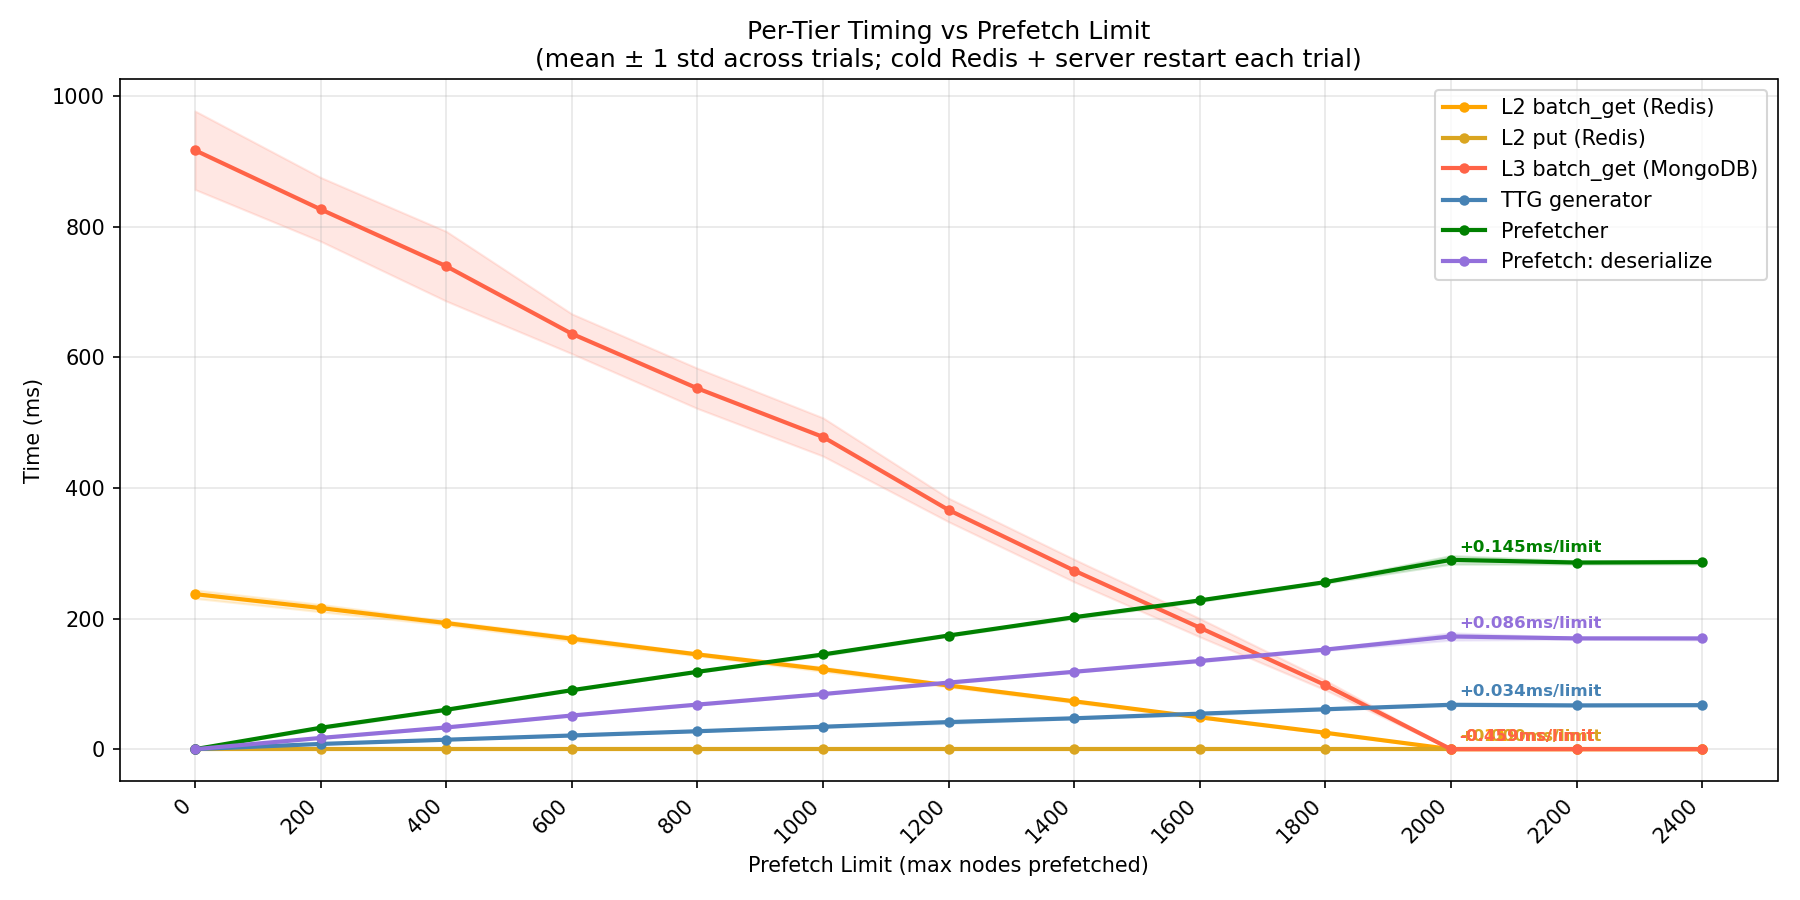
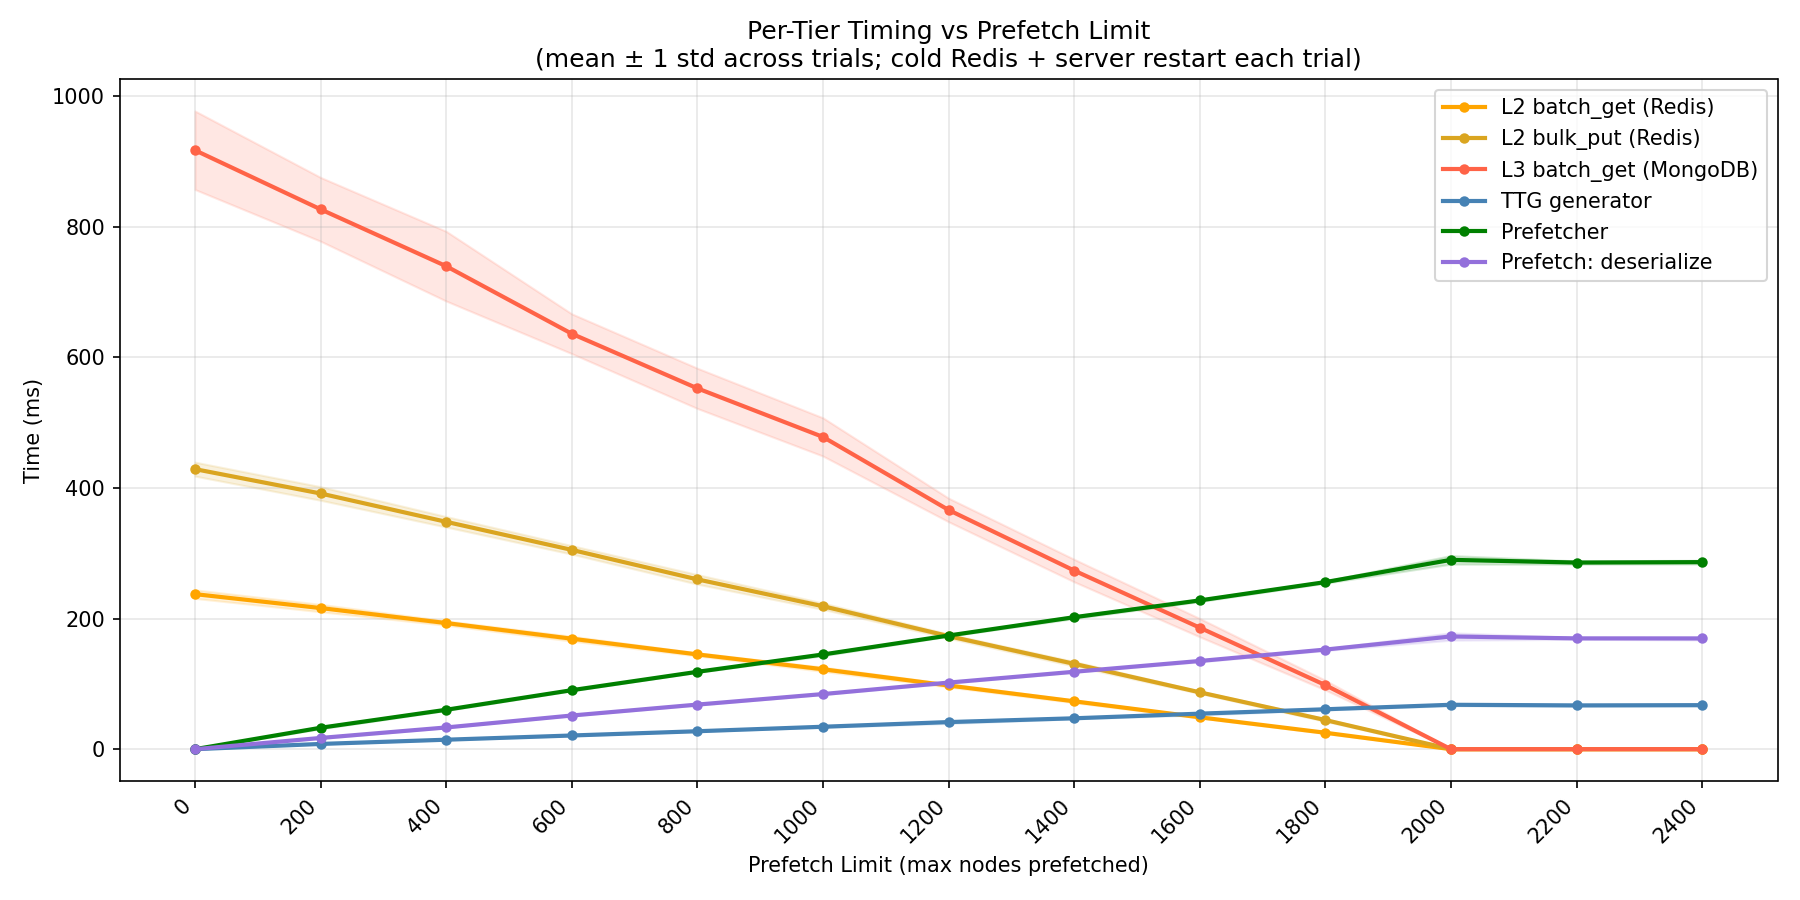
save scripts

diff --git a/linked_list/plot_prof_lines.py b/linked_list/plot_prof_lines.py
@@ -21,7 +21,7 @@ import matplotlib.pyplot as plt
 
 TRACKED = {
     "L2 batch_get (Redis)":   "RedisBackend.batch_get",
-    "L2 put (Redis)":         "RedisBackend.put",
+    "L2 bulk_put (Redis)":    "RedisBackend.bulk_put",
     "L3 batch_get (MongoDB)": "MongoBackend.batch_get",
     "TTG generator":          "get_ttg_prefetch_list",
     "Prefetcher":             "ScaleTieredMemory.prefetch",
@@ -78,7 +78,7 @@ def main():
     tiers = list(TRACKED.keys()) + list(CALLER_TRACKED.keys())
     colors = {
         "L2 batch_get (Redis)":   "orange",
-        "L2 put (Redis)":         "goldenrod",
+        "L2 bulk_put (Redis)":    "goldenrod",
         "L3 batch_get (MongoDB)": "tomato",
         "TTG generator":          "steelblue",
         "Prefetcher":             "green",
@@ -96,29 +96,6 @@ def main():
         mu_at[tier] = mu
         ax.plot(x, mu, color=colors[tier], linewidth=2, marker="o", markersize=4, label=tier)
         ax.fill_between(x, mu - sd, mu + sd, color=colors[tier], alpha=0.15)
-
-    # Annotate slope (limit=2000 - limit=0) / 2000 at the limit=2000 point
-    slopes = {}
-    if 0 in limits and 2000 in limits:
-        idx0    = limits.index(0)
-        idx2000 = limits.index(2000)
-        for tier in tiers:
-            v0    = mu_at[tier][idx0]
-            v2000 = mu_at[tier][idx2000]
-            slope = (v2000 - v0) / 2000
-            slopes[tier] = slope
-            ax.annotate(
-                f"{slope:+.3f}ms/limit",
-                xy=(x[idx2000], v2000),
-                xytext=(4, 4), textcoords="offset points",
-                color=colors[tier], fontsize=8, fontweight="bold",
-            )
-
-    if slopes:
-        print("\nSlopes (ms per prefetch_limit unit):")
-        for tier, slope in slopes.items():
-            print(f"  {tier:<30} {slope:+.4f}")
-        print(f"  {'SUM':<30} {sum(slopes.values()):+.4f}")
 
     ax.set_xlabel("Prefetch Limit (max nodes prefetched)")
     ax.set_ylabel("Time (ms)")

diff --git a/littlex4/plot_prof_lines.py b/littlex4/plot_prof_lines.py
@@ -21,7 +21,7 @@ import matplotlib.pyplot as plt
 
 TRACKED = {
     "L2 batch_get (Redis)":   "RedisBackend.batch_get",
-    "L2 put (Redis)":         "RedisBackend.put",
+    "L2 bulk_put (Redis)":    "RedisBackend.bulk_put",
     "L3 batch_get (MongoDB)": "MongoBackend.batch_get",
     "TTG generator":          "get_ttg_prefetch_list",
     "Prefetcher":             "ScaleTieredMemory.prefetch",
@@ -78,7 +78,7 @@ def main():
     tiers = list(TRACKED.keys()) + list(CALLER_TRACKED.keys())
     colors = {
         "L2 batch_get (Redis)":   "orange",
-        "L2 put (Redis)":         "goldenrod",
+        "L2 bulk_put (Redis)":    "goldenrod",
         "L3 batch_get (MongoDB)": "tomato",
         "TTG generator":          "steelblue",
         "Prefetcher":             "green",
@@ -96,29 +96,6 @@ def main():
         mu_at[tier] = mu
         ax.plot(x, mu, color=colors[tier], linewidth=2, marker="o", markersize=4, label=tier)
         ax.fill_between(x, mu - sd, mu + sd, color=colors[tier], alpha=0.15)
-
-    # Annotate slope (limit=2000 - limit=0) / 2000 at the limit=2000 point
-    slopes = {}
-    if 0 in limits and 2000 in limits:
-        idx0    = limits.index(0)
-        idx2000 = limits.index(2000)
-        for tier in tiers:
-            v0    = mu_at[tier][idx0]
-            v2000 = mu_at[tier][idx2000]
-            slope = (v2000 - v0) / 2000
-            slopes[tier] = slope
-            ax.annotate(
-                f"{slope:+.3f}ms/limit",
-                xy=(x[idx2000], v2000),
-                xytext=(4, 4), textcoords="offset points",
-                color=colors[tier], fontsize=8, fontweight="bold",
-            )
-
-    if slopes:
-        print("\nSlopes (ms per prefetch_limit unit):")
-        for tier, slope in slopes.items():
-            print(f"  {tier:<30} {slope:+.4f}")
-        print(f"  {'SUM':<30} {sum(slopes.values()):+.4f}")
 
     ax.set_xlabel("Prefetch Limit (max nodes prefetched)")
     ax.set_ylabel("Time (ms)")

diff --git a/linked_list/diff_profile.py b/linked_list/diff_profile.py
@@ -48,7 +48,6 @@ TRACKED = [
     ("ScaleTieredMemory.batch_get",    "  ScaleTieredMemory.batch_get","coordination"),
     ("plan_query",                     "  plan_query",                 "coordination"),
     ("RedisBackend.batch_get",         "  L2: RedisBackend.batch_get", "l2"),
-    ("RedisBackend.put",               "  L2: RedisBackend.put",       "l2"),
     ("RedisBackend.bulk_put",           "  L2: RedisBackend.bulk_put",  "l2"),
     ("MongoBackend.batch_get",         "  L3: MongoBackend.batch_get", "l3"),
     ("MongoBackend.find_raw",          "  L3: MongoBackend.find_raw",  "l3"),

diff --git a/littlex4/diff_profile.py b/littlex4/diff_profile.py
@@ -48,7 +48,6 @@ TRACKED = [
     ("ScaleTieredMemory.batch_get",    "  ScaleTieredMemory.batch_get","coordination"),
     ("plan_query",                     "  plan_query",                 "coordination"),
     ("RedisBackend.batch_get",         "  L2: RedisBackend.batch_get", "l2"),
-    ("RedisBackend.put",               "  L2: RedisBackend.put",       "l2"),
     ("RedisBackend.bulk_put",           "  L2: RedisBackend.bulk_put",  "l2"),
     ("MongoBackend.batch_get",         "  L3: MongoBackend.batch_get", "l3"),
     ("MongoBackend.find_raw",          "  L3: MongoBackend.find_raw",  "l3"),
